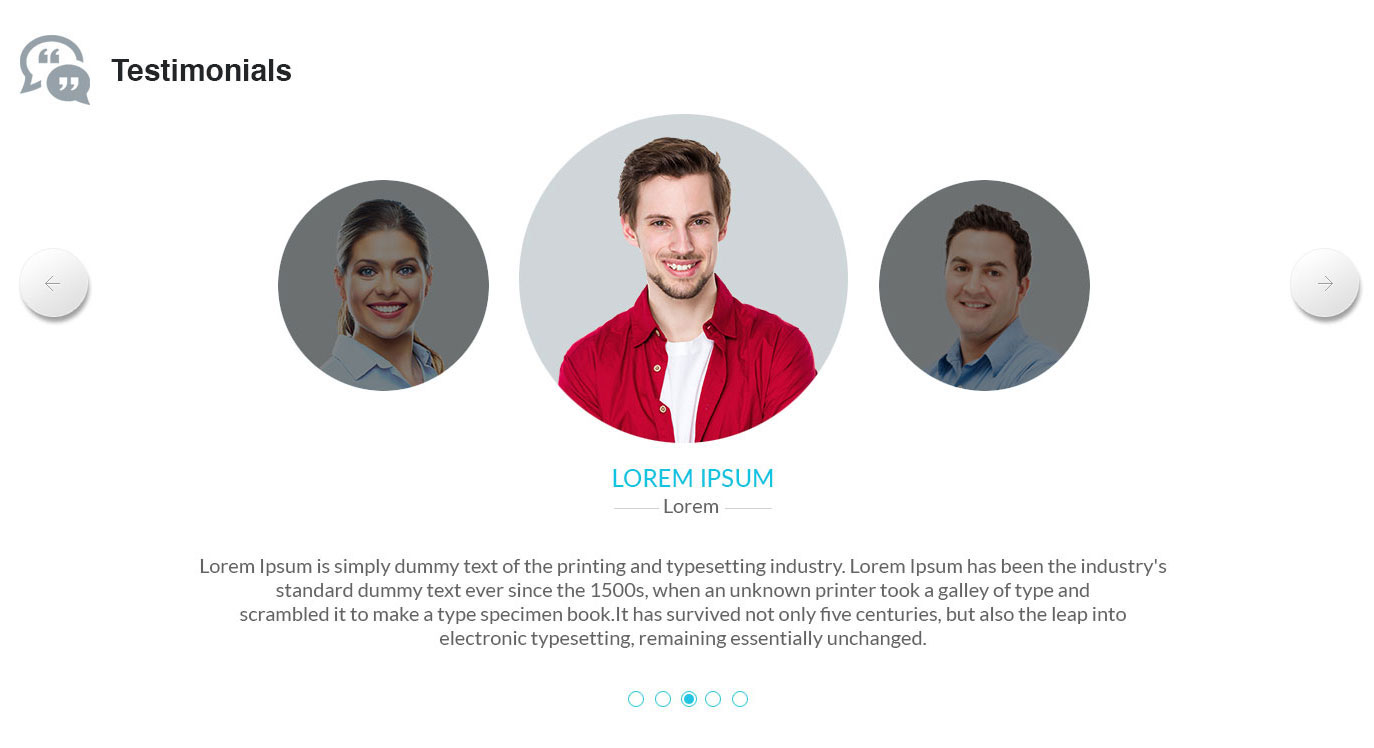
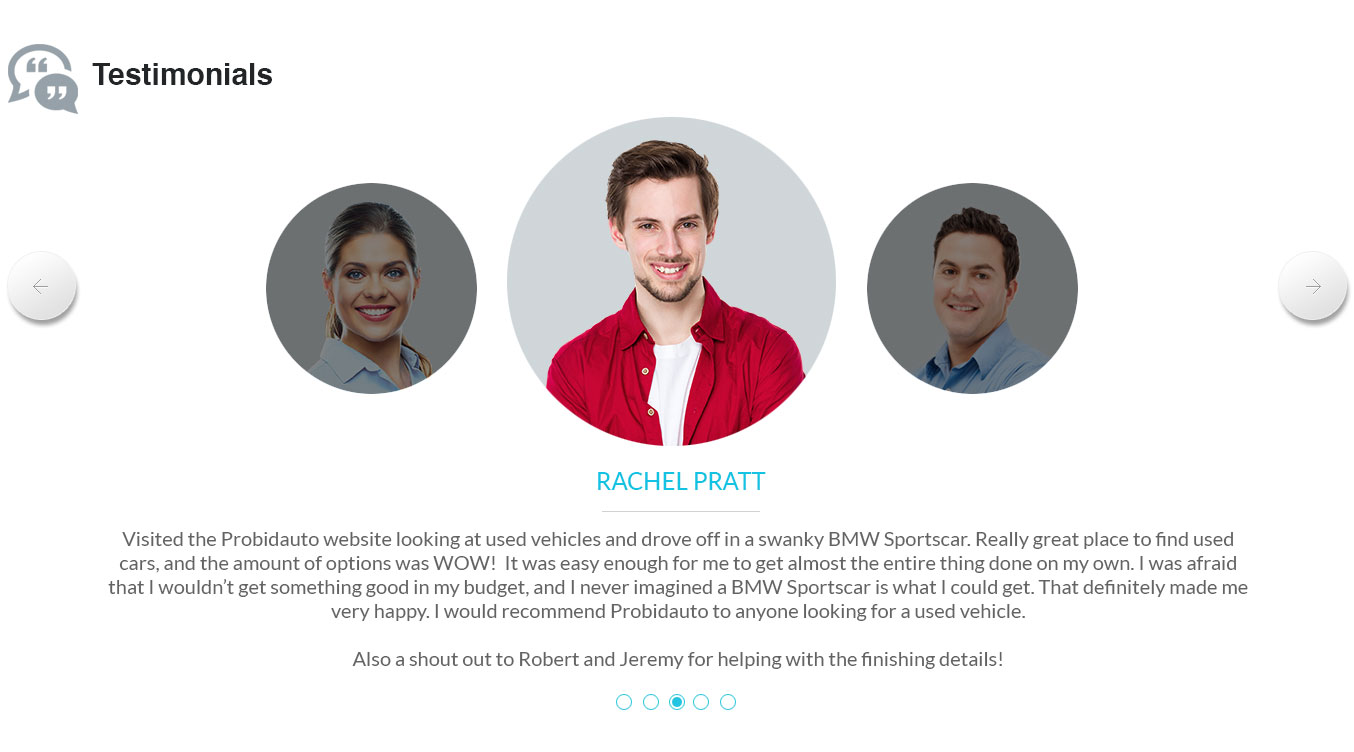
koushik

diff --git a/src/styles.css b/src/styles.css
@@ -164,50 +164,136 @@ body { margin: 0; font-family: Roboto, "Helvetica Neue", sans-serif; }
 
 .owl-carousel .owl-nav button.owl-prev, .owl-carousel .owl-nav button.owl-next{
     background: rgb(253,253,253) !important;
-    background: -moz-linear-gradient(350deg, rgba(253,253,253,1) 0%, rgba(225,225,225,1) 100%) !important;
-    background: -webkit-linear-gradient(350deg, rgba(253,253,253,1) 0%, rgba(225,225,225,1) 100%) !important;
-    background: linear-gradient(350deg, rgba(253,253,253,1) 0%, rgba(225,225,225,1) 100%)!important;
+    background: -moz-linear-gradient(180deg, rgba(253,253,253,1) 0%, rgba(225,225,225,1) 100%) !important;
+    background: -webkit-linear-gradient(180deg, rgba(253,253,253,1) 0%, rgba(225,225,225,1) 100%) !important;
+    background: linear-gradient(180deg, rgba(253,253,253,1) 0%, rgba(225,225,225,1) 100%)!important;
     filter: progid:DXImageTransform.Microsoft.gradient(startColorstr="#fdfdfd",endColorstr="#e1e1e1",GradientType=1)!important;
     width: 73px;
     height: 73px;
     border-radius: 100%;
+    -webkit-box-shadow: 0px 15px 18px -16px rgba(0,0,0,0.75);
+    -moz-box-shadow: 0px 15px 18px -16px rgba(0,0,0,0.75);
+    box-shadow: 0px 15px 18px -16px rgba(0,0,0,0.75);
 }
 .owl-carousel .owl-nav button.owl-prev{
     position:absolute;
-    top:50%;
+    top:25%;
     left:-5%;
 }
 
 .owl-carousel .owl-nav button.owl-next{
     position:absolute;
-    top:50%;
+    top:25%;
     right:-5%;
 }
 
 .owl-carousel .owl-item.active.center img {
     display: block;
-    width: 332px;
-    height: 332px;
-    border-radius: 100%;
+    width: 100%;
+    height: 100%;
     margin: 0 auto;
+    position: relative;
+}
+
+.owl-carousel .owl-item.active.center h1.title1{
+    border-bottom: 1px solid #d1d1d1;
+    margin: 0 auto 30px;
 }
 
 .owl-carousel .owl-item img {
+    display: block;
+    width: 100%;
+    height: 100%;
+    margin: 0 auto;
+    position: relative;
+}
+
+.slide-image-wrapper::after{
+    content:'';
+    position: absolute;
+    top:0;
+    left:0;
+    background-color: rgba(0, 0, 0, 0.4);
+    width: 100%;
+    height: 100%;
+    border-radius: 100%;  
+    display: block;
+    z-index: 99;
+}
+
+.slide-image-wrapper{
     display: block;
     width: 210px;
     height: 210px;
     border-radius: 100%;    
     margin: 0 auto;
+    overflow: hidden; 
+    position: relative;
+}
+
+.owl-carousel .owl-item.active.center .slide-image-wrapper{
+    display: block;
+    width: 330px;
+    height: 330px;
+    border-radius: 100%;    
+    margin: 0 auto;
+    overflow: hidden; 
+    position: relative;
+}
+
+.owl-carousel .owl-item.active.center .slide-image-wrapper::after{
+    content:'';
+    position: absolute;
+    top:0;
+    left:0;
+    background-color:transparent;
+    width: 100%;
+    height: 100%;
+    border-radius: 100%;  
+    display: block;
+    z-index: 99;
+}
+
+.next-slide i{
+    color:#9e9e9e;
+    font-size: 24px;
+    transform: rotate(-180deg);
+    line-height: 60px;
+}
+.prev-slide i{
+    color:#9e9e9e;
+    font-size: 24px;
+    line-height: 60px;
+}
+
+
+/* 
+.owl-carousel .owl-item.active.center img::after{
+    content:'';
+    position: absolute;
+    top:0;
+    left:0;
+    background-color: rgba(0, 0, 0, 0.5);
+    width: 100%;
+    height: 100%;
+    border-radius: 100%;  
+    display: block;
+    z-index: 99;
+} */
+
+.owl-stage{
+    display: flex;
+    align-items: flex-start;
+    justify-content: center;
 }
 
 .owl-carousel .owl-item h1.title1{display: none !important;}
 .owl-carousel .owl-item p.quatation{display: none !important;}
 
-.owl-carousel .owl-item.active.center h1.title1{display: block !important; width: 300%; margin-left: -100%;}
+.owl-carousel .owl-item.active.center h1.title1{display: inline-block !important; text-align: center;}
 .owl-carousel .owl-item.active.center p.quatation{display: block !important; width: 300%; margin-left: -100%;}
-.owl-carousel.owl-drag .owl-item{
-    position: relative;
-}
+.owl-carousel.owl-drag .owl-item{position: relative;margin-top: 60px;}
+.owl-carousel .owl-item.active.center {margin-top: 0px;}
 
   .owl-carousel .owl-item.active > div:after {
     content: '';
@@ -231,7 +317,7 @@ body { margin: 0; font-family: Roboto, "Helvetica Neue", sans-serif; }
       filter: grayscale(0);
   }
   .owl-carousel .owl-item > .active {
-    transform: scale(.8);
+    transform: scale(.5);
     transition: .6s ease;
     -webkit-filter: grayscale(100%); /* Safari 6.0 - 9.0 */
       filter: grayscale(100%);

diff --git a/src/app/component/frontend/tesimoniallist/tesimoniallist.component.html b/src/app/component/frontend/tesimoniallist/tesimoniallist.component.html
@@ -6,6 +6,7 @@
         </mat-card-content>
     </span>
 </mat-card>
+
 <mat-card class="innerpagetitle">
         <span class="mainwrappercontent">
             <mat-card-content>
@@ -18,23 +19,20 @@
     <span class="mainwrappercontent"> 
         <img src="../../../../assets/images/testimonial_blockimg1.jpg" style="width: 100%; display: block; margin: 0; padding: 0;">   
     </span>
-    <!-- <button (click)="btnBackClick()" mat-stroked-button class="btngeneral btngray">Back To Main</button> -->
-    <!-- <span class="mainwrappercontent">
-    <mat-list role="list">          
-        <mat-list-item role="listitem" class="testimonialserv" *ngFor="let testmon of TestimonialListArray | slice:0:indexval; let i=index">
-          <mat-card>
-            <span class="testiimgwarpper"><img src="{{testmon.image}}" class="iconcls"></span>                
-            <mat-card-content class="quatation">&quot; {{testmon.quatation}} &quot;</mat-card-content>
-            <span class="testibottomcontent">
-              <mat-card-title class="title1">{{testmon.name}}</mat-card-title>
-              <mat-card-title class="title2">{{testmon.designation}}</mat-card-title>
-            </span>
-          </mat-card>
-        </mat-list-item>     
-    </mat-list>
-    <button *ngIf="indexval.length > indexval" (click)="showMoreFunc()" mat-stroked-button class="btngeneral btngray">Show more</button>
-</span> -->
-
+    <span class="mainwrappercontent">
+        <mat-list role="list">          
+            <mat-list-item role="listitem" class="testimonialserv" *ngFor="let testmon of TestimonialListArray | slice:0:indexval; let i=index">
+                <mat-card>
+                    <span class="testiimgwarpper"><img src="{{testmon.image}}" class="iconcls"></span>                
+                    <mat-card-content class="quatation">&quot; {{testmon.quatation}} &quot;</mat-card-content>
+                    <span class="testibottomcontent">
+                        <mat-card-title class="title1">{{testmon.name}}</mat-card-title>
+                    </span>
+                </mat-card>
+            </mat-list-item>     
+        </mat-list>
+        <button *ngIf="indexval.length > indexval" (click)="showMoreFunc()" mat-stroked-button class="btngeneral btngray">Show more</button>
+    </span>
 </mat-card>
 
 <app-footer></app-footer>

diff --git a/src/app/component/frontend/tesimonial/tesimonial.component.ts b/src/app/component/frontend/tesimonial/tesimonial.component.ts
@@ -12,35 +12,35 @@ declare var $: any;
 export class TesimonialComponent implements OnInit {
 
   carouselOptions = {
-    margin: 25,
+    margin: 5,
     nav: true,
     loop: true,
-    navText: ["<div class='nav-btn prev-slide'></div>", "<div class='nav-btn next-slide'></div>"],
+    navText: ["<div class='nav-btn prev-slide'><i class='material-icons'>keyboard_backspace</i></div>", "<div class='nav-btn next-slide'><i class='material-icons'>keyboard_backspace</i></div>"],
     responsiveClass: true,
     dots: false,
     responsive: {
       0: {
         items: 1,
         autoplay: true,
-        autoplayTimeout: 2000,
+        autoplayTimeout: 6000,
         autoplayHoverPause: true,
         center: true,
         loop: true,
         nav: true,
       },
       600: {
-        items: 1,
+        items: 2,
         autoplay: true,
-        autoplayTimeout: 2000,
+        autoplayTimeout: 6000,
         autoplayHoverPause: true,
         center: true,
         loop: true,
         nav: true,
       },
       991: {
-        items: 2,
+        items: 3,
         autoplay: true,
-        autoplayTimeout: 2000,
+        autoplayTimeout: 6000,
         autoplayHoverPause: true,
         center: true,
         loop: true,
@@ -49,7 +49,7 @@ export class TesimonialComponent implements OnInit {
       1500: {
         items: 3,
         autoplay: true,
-        autoplayTimeout: 2000,
+        autoplayTimeout: 6000,
         autoplayHoverPause: true,
         center: true,
         loop: true,

diff --git a/src/app/component/frontend/tesimonial/tesimonial.component.html b/src/app/component/frontend/tesimonial/tesimonial.component.html
@@ -66,12 +66,14 @@
 
       <owl-carousel [options]="carouselOptions" [items]="TestimonialListArray" [carouselClasses]="['owl-theme', 'row', 'sliding']">
         <div *ngFor="let image of TestimonialListArray;let i= index">
-          <img class="slide-image" src="{{image.image}}" >
+          <span class="slide-image-wrapper">
+            <img class="slide-image" src="{{image.image}}" >
+          </span>
           <span class="slide-text" (click)="showBut()">
               <h1 class="title1 demo cursor">{{image.name}}</h1>
-              <!-- <h4 class="title2 demo cursor">{{image.designation}}</h4> -->
               <p class="quatation demo cursor">{{image.quatation}}</p>
           </span>
         </div>
+
       </owl-carousel>
       <button mat-button class="btnblue sim-button" (click)="btnClick();">View More</button>

diff --git a/src/assets/css/style.css b/src/assets/css/style.css
@@ -260,7 +260,7 @@ a{cursor:pointer;outline:none}
 
 .testimonial{background-color:#f3f3f3;padding:50px 16px}
 .testimonial .mat-list{margin-top:0!important}
-.testimonial .mat-list .mat-list-item{flex:1;flex-basis:100%;height: auto;}
+.testimonial .mat-list .mat-list-item{flex:1;flex-basis:100%;height: auto; width: 33.33%;}
 .testimonial .testiimgwarpper{float:left;padding:0 20px 10px 0}
 .testimonial .testiimgwarpper img{float:left;border:7px solid #f9f8f7;border-radius:50%;box-shadow:0 5px 5px 0 rgba(50,50,50,.15);max-width:100px;max-height:100px}
 h1.title1{color:#1da1db !important; font-family: 'LatoMedium' !important; font-size:24px !important;font-weight:600;line-height:24px;letter-spacing:1.92px; text-transform:uppercase !important;}

diff --git a/src/app/layout/footer/footer.component.css b/src/app/layout/footer/footer.component.css
@@ -4,7 +4,7 @@
 .footertopwrapper .mat-nav-list {display: -webkit-box;display: -moz-box;display: -ms-flexbox;display: -webkit-flex;display: flex;justify-content: space-between;padding-top: 0;}
 .footertopwrapper .mat-list-item {float: right;text-align: center;height: auto;width: auto;position: relative;color: #fff;font-family: 'Helvetica-Regular';} */
 
-.footerwrapper {background-color:#353535 !important; position:relative; }
+.footerwrapper {background-color:#353535 !important; position:relative; width: 100%; display: inline-block; }
 
 .footerwrappercontent{
     background:#353535 !important; min-height: 20px;    
